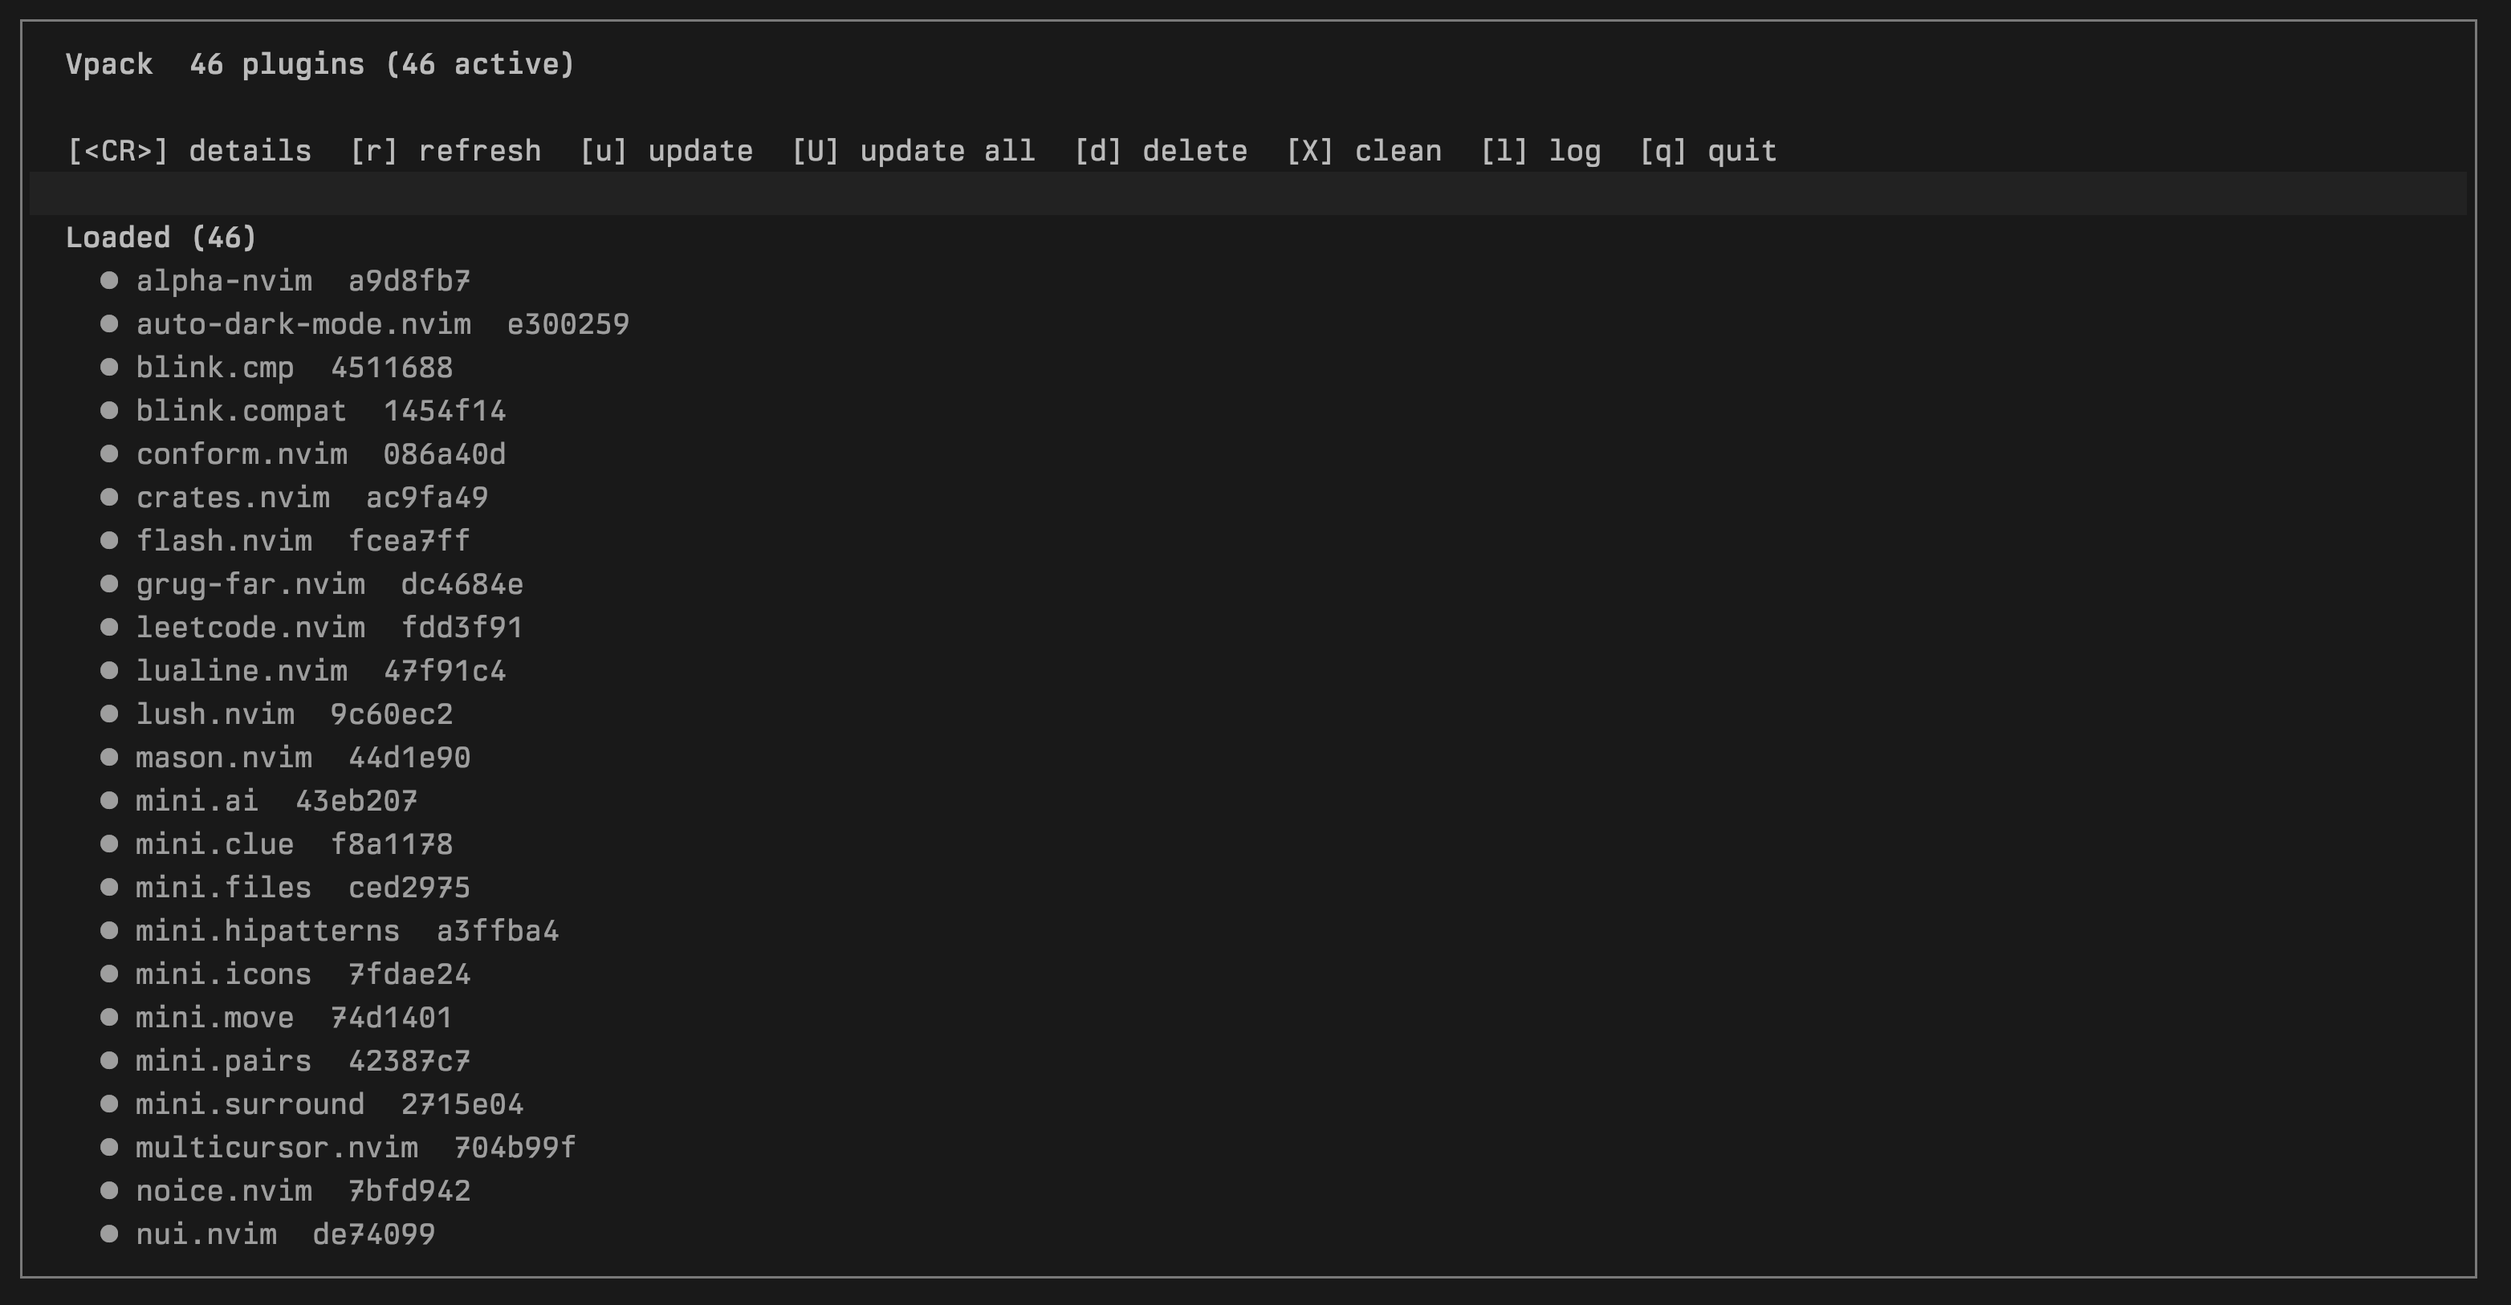
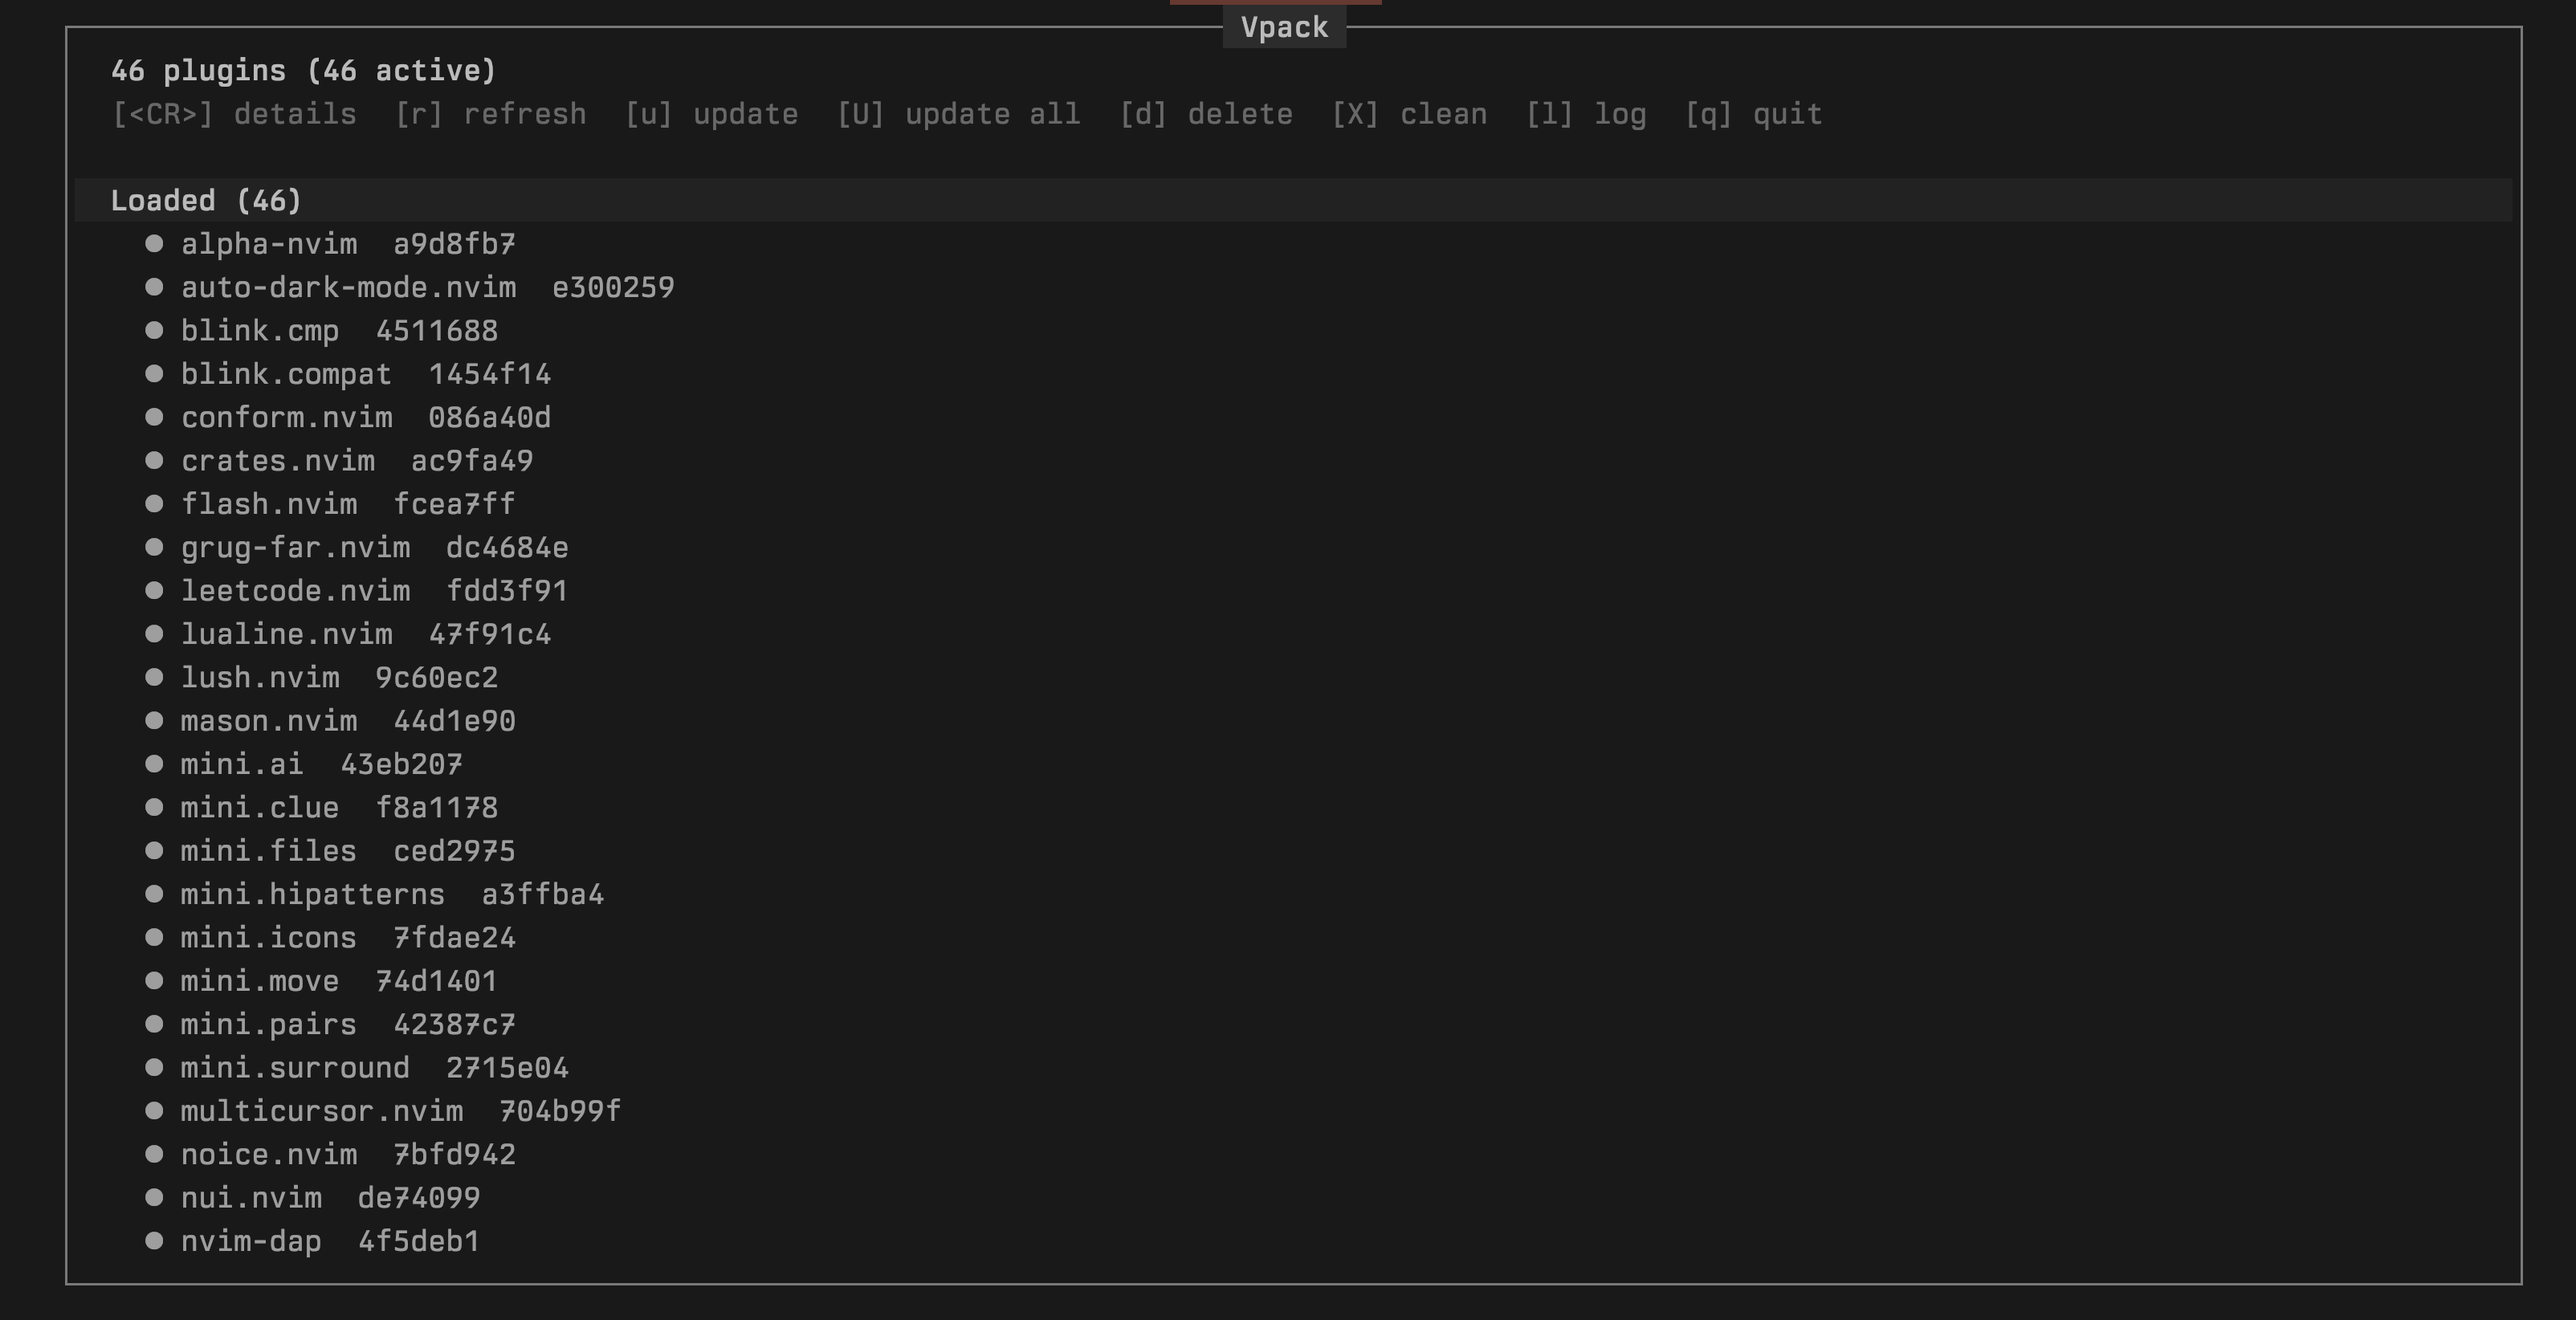
feat: refine the vpack UI and document usage

Changed region(s): [[0.0, 0.0, 0.9923, 0.984]]

diff --git a/README.md b/README.md
@@ -4,6 +4,8 @@ Small UI for Neovim 0.12 `vim.pack`.
 
 `vpack.nvim` gives you a simple `:Vpack` window for inspecting and operating on plugins managed by the built-in pack API.
 
+![vpack screenshot](./assets/vpack.png)
+
 ## Requirements
 
 - Neovim >= 0.12
@@ -83,8 +85,8 @@ Inside the log window:
 
 ## Help
 
-Vim help is generated from this README through `panvimdoc` in CI.
-After the generated doc is committed, use:
+This repo ships generated vimdoc as `doc/vpack.txt`.
+After updating helptags, use:
 
 ```vim
 :help vpack
